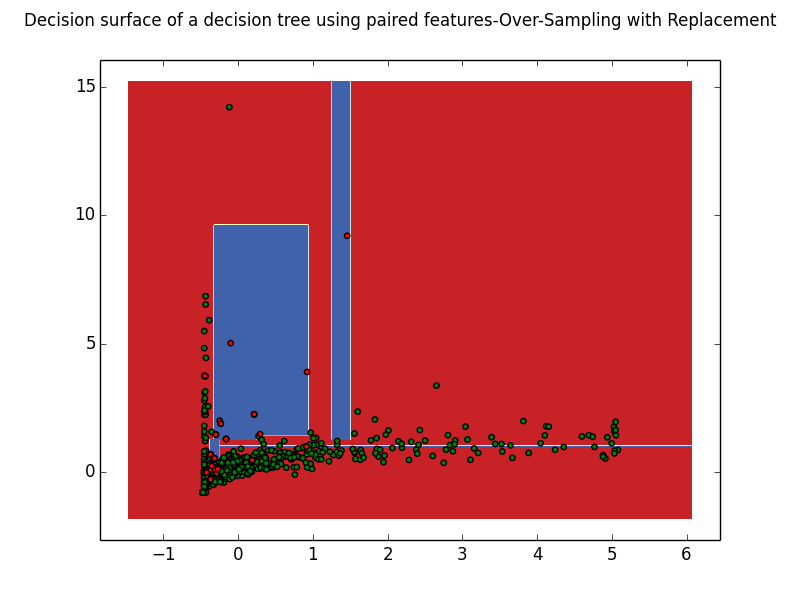
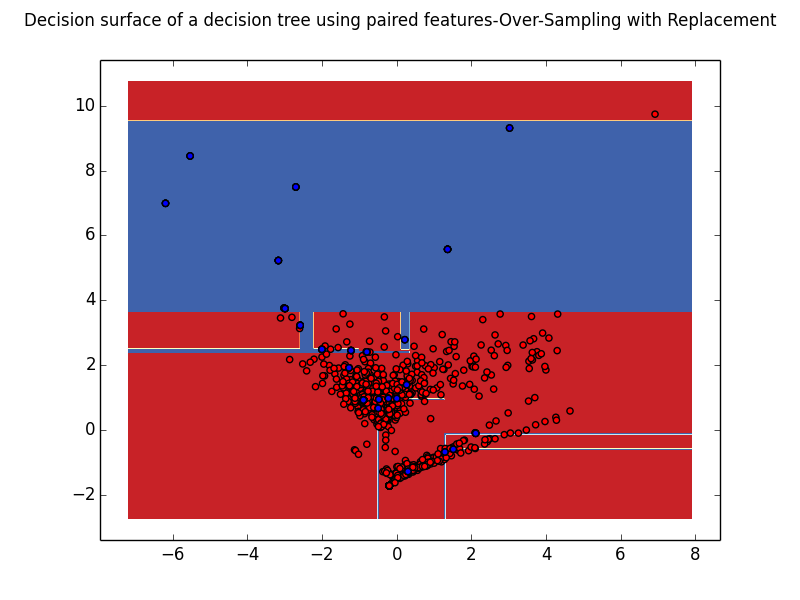
mid report and pca

diff --git a/code/smote.py b/code/smote.py
@@ -5,6 +5,8 @@ from os.path import *
 
 from sklearn.tree import DecisionTreeClassifier
 from sklearn.neighbors import NearestNeighbors
+from sklearn.decomposition import PCA
+
 import numpy as np
 import matplotlib.pyplot as plt
 
@@ -22,7 +24,7 @@ def plot(clf, X, Y, id):
     print "plotting"
     plot_step = 0.02
     n_classes = 2
-    plot_colors = 'gr'
+    plot_colors = 'rb'
     labels = {"1: Class 1", "2: Class 2"}
     # print data[:, :6]
 
@@ -37,7 +39,7 @@ def plot(clf, X, Y, id):
 
     for i, color in zip(range(n_classes), plot_colors):
       idx = np.where(Y == i)
-      plt.scatter(X[idx, 0], X[idx, 1], c=color, cmap=plt.cm.RdYlBu, edgecolor='black', s=15)
+      plt.scatter(X[idx, 0], X[idx, 1], c=color, cmap=plt.cm.RdYlBu, edgecolor='black', s=20)
 
     if id is 'a':
         method = 'Original Data'
@@ -47,7 +49,7 @@ def plot(clf, X, Y, id):
         method = 'SMOTE'
 
     plt.suptitle("Decision surface of a decision tree using paired features-"+method)
-    plt.legend(loc='lower right', borderpad=0, handletextpad=0)
+    # plt.legend(loc='lower right', borderpad=0, handletextpad=0)
     plt.axis("tight")
     # plt.show
     name = id+'.png'
@@ -60,16 +62,16 @@ def overReplacement(data, percent):
     N = percent / 100
     # print data.shape
 
-    unique, counts = np.unique(data[:, [6]], return_counts=True)
+    unique, counts = np.unique(data[:, [data.shape[1]-1]], return_counts=True)
     freq = dict(zip(unique, counts))
     nNeg = freq[1.0]
     nPos = freq[0.0]
 
     nindex = 0
     # print 'Neg: ', nNeg, ' Pos: ', nPos
-    negData = np.zeros((nNeg, 7))
+    negData = np.zeros((nNeg, data.shape[1]))
     for i in range(data.shape[0]):
-        if data[i, [6]] == 1.0:
+        if data[i, [data.shape[1]-1]] == 1.0:
             # print i
             negData[nindex, :] = data[i, :]
             nindex+=1
@@ -100,7 +102,7 @@ def populate(negData, N, i, nnarray):
         idx = np.random.randint(nnarray.shape[1])
         for attr in range(negData.shape[1]):
             # print attr
-            if attr < 6:
+            if attr < data.shape[1]-1:
                 dif = negData[nnarray[i, idx], attr] - negData[i, attr]
                 # print 'dif:', dif
                 gap = np.random.random(1)
@@ -115,22 +117,22 @@ def populate(negData, N, i, nnarray):
 
 def smote(data, percent, k):
     print 'SMOTE'
-    unique, counts = np.unique(data[:, [6]], return_counts=True)
+    unique, counts = np.unique(data[:, [data.shape[1]-1]], return_counts=True)
     freq = dict(zip(unique, counts))
     nNeg = freq[1.0]
     nPos = freq[0.0]
 
-    if(percent < 100):
-        nNeg = (percent/100)*nNeg
+    if percent < 100:
+        nNeg = (percent / 100 )* nNeg
         N = 100
 
     N = (int)(percent/100)
 
     nindex = 0
     # print 'Neg: ', nNeg, ' Pos: ', nPos
-    negData = np.zeros((nNeg, 7))
+    negData = np.zeros((nNeg, data.shape[1]))
     for i in range(data.shape[0]):
-        if data[i, [6]] == 1.0:
+        if data[i, [data.shape[1]-1]] == 1.0:
             # print i
             negData[nindex, :] = data[i, :]
             nindex += 1
@@ -143,11 +145,15 @@ def smote(data, percent, k):
         nbrs = NearestNeighbors(n_neighbors=k+1, algorithm='ball_tree').fit(negData[:, [1, 0]])
         distances, indices = nbrs.kneighbors(negData[:, [1, 0]])
         nnarray[i, :] = indices[i, 1:]
+
         newRow = populate(negData, N-1, i, nnarray)
-        temp = np.empty((sz + 1, data.shape[1]), data.dtype)
+
+        temp = np.empty((sz + N-1, data.shape[1]), data.dtype)
         temp[:sz, :] = data
-        temp[data.shape[0], :] = newRow
-        sz += 1
+
+        for j in range(N-1):
+            temp[sz, :] = newRow[j, :]
+            sz += 1
         data = temp
 
     return data
@@ -157,6 +163,7 @@ def smote(data, percent, k):
 if __name__=="__main__":
 
     load_data = True
+    pca_true = True
 
     if load_data:
         dataset = abspath('mammo.csv')
@@ -167,23 +174,35 @@ if __name__=="__main__":
         np.savetxt("mammo.csv", data, fmt='%10.5f', delimiter=',')
 
     # print Y
+    # Reduce dimensionality of dataset to 2 using PCA for better classification
+    if pca_true:
+        xData = data[:, :data.shape[1]-1]
+        yData = data[:, [data.shape[1]-1]]
+
+        pca = PCA(n_components=2)
+        xData = pca.fit_transform(xData)
+        # print xData.shape
+
+        data = np.empty((data.shape[0], 3), dtype=xData.dtype)
+        data[: , :2] = xData
+        data[:, [2]] = yData
 
     # Normal Decision tree CLassification
     X = data[:, [1, 0]]
-    Y = data[:, [6]]
+    Y = data[:, [data.shape[1]-1]]
     clfNormal = DecisionTreeClassifier()
     clfNormal = clfNormal.fit(X, Y)
-    # plot(clfNormal, X, Y, 'a')
+    plot(clfNormal, X, Y, 'a')
 
     # Over-sampling with replacement
 
-    dataA = overReplacement(data, 200)
-    np.random.shuffle(dataA)
+    dataA = overReplacement(data, 500)
+    # np.random.shuffle(dataA)
     # print dataA.shape
     X = dataA[:, [1, 0]]
-    Y = dataA[:, [6]]
+    Y = dataA[:, [data.shape[1]-1]]
 
-    unique, counts = np.unique(dataA[:, [6]], return_counts=True)
+    unique, counts = np.unique(dataA[:, [dataA.shape[1]-1]], return_counts=True)
     freq = dict(zip(unique, counts))
     nNeg = freq[1.0]
     nPos = freq[0.0]
@@ -191,17 +210,17 @@ if __name__=="__main__":
 
     clfReplace = DecisionTreeClassifier()
     clfReplace = clfReplace.fit(X, Y)
-    # plot(clfReplace, X, Y, 'b')
+    plot(clfReplace, X, Y, 'b')
 
     # SMOTE
 
-    dataB = smote(data, 200, 5)
-    np.random.shuffle(dataB)
+    dataB = smote(data, 500, 5)
+    # np.random.shuffle(dataB)
     # print dataA.shape
     X = dataB[:, [1, 0]]
-    Y = dataB[:, [6]]
+    Y = dataB[:, [data.shape[1]-1]]
 
-    unique, counts = np.unique(dataB[:, [6]], return_counts=True)
+    unique, counts = np.unique(dataB[:, [data.shape[1]-1]], return_counts=True)
     freq = dict(zip(unique, counts))
     nNeg = freq[1.0]
     nPos = freq[0.0]
@@ -209,7 +228,7 @@ if __name__=="__main__":
 
     clfSmote = DecisionTreeClassifier()
     clfSmote = clfReplace.fit(X, Y)
-    # plot(clfSmote, X, Y, 'c')
+    plot(clfSmote, X, Y, 'c')
 
 
     # Under-sampling and SMOTE
